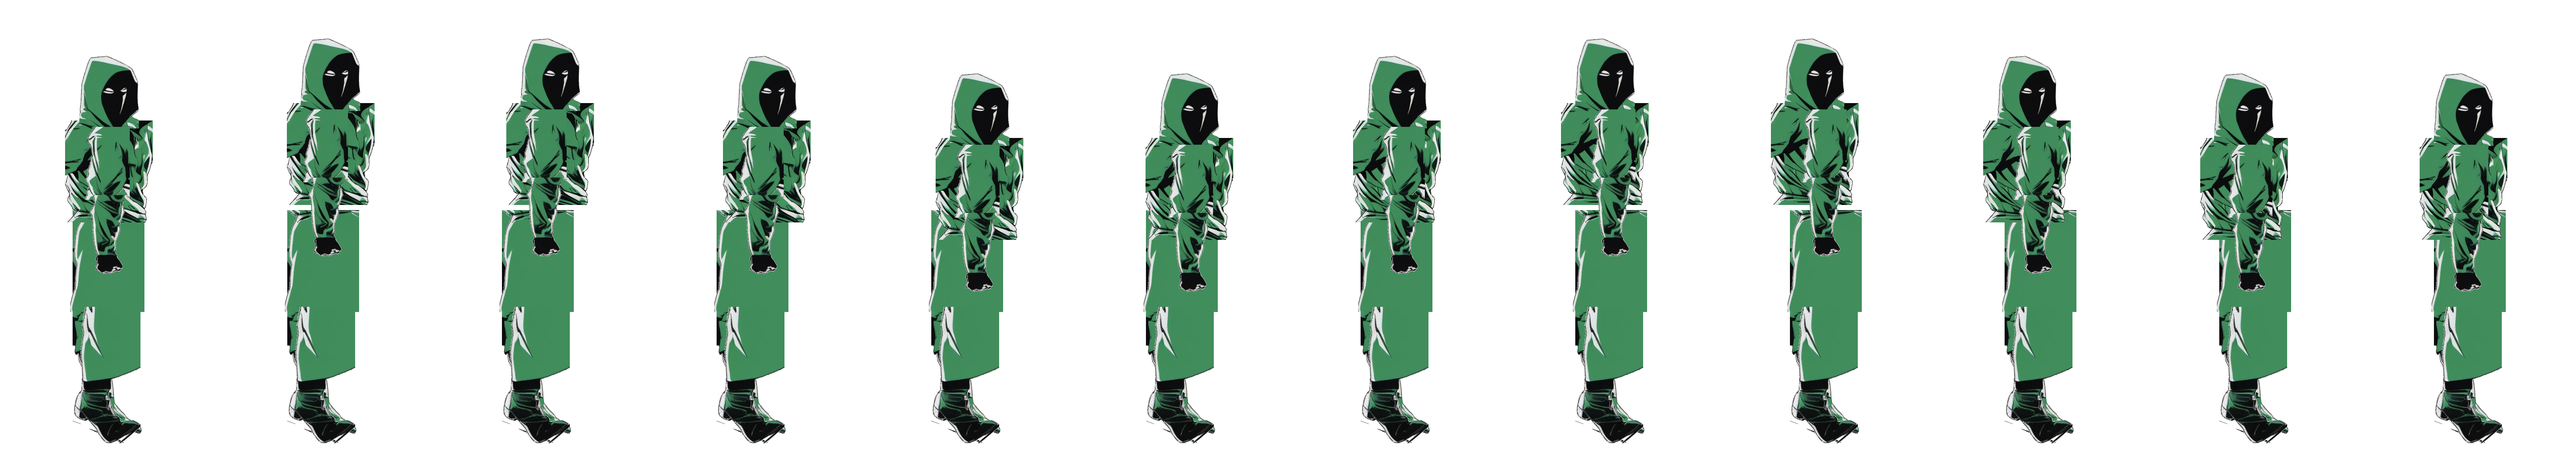
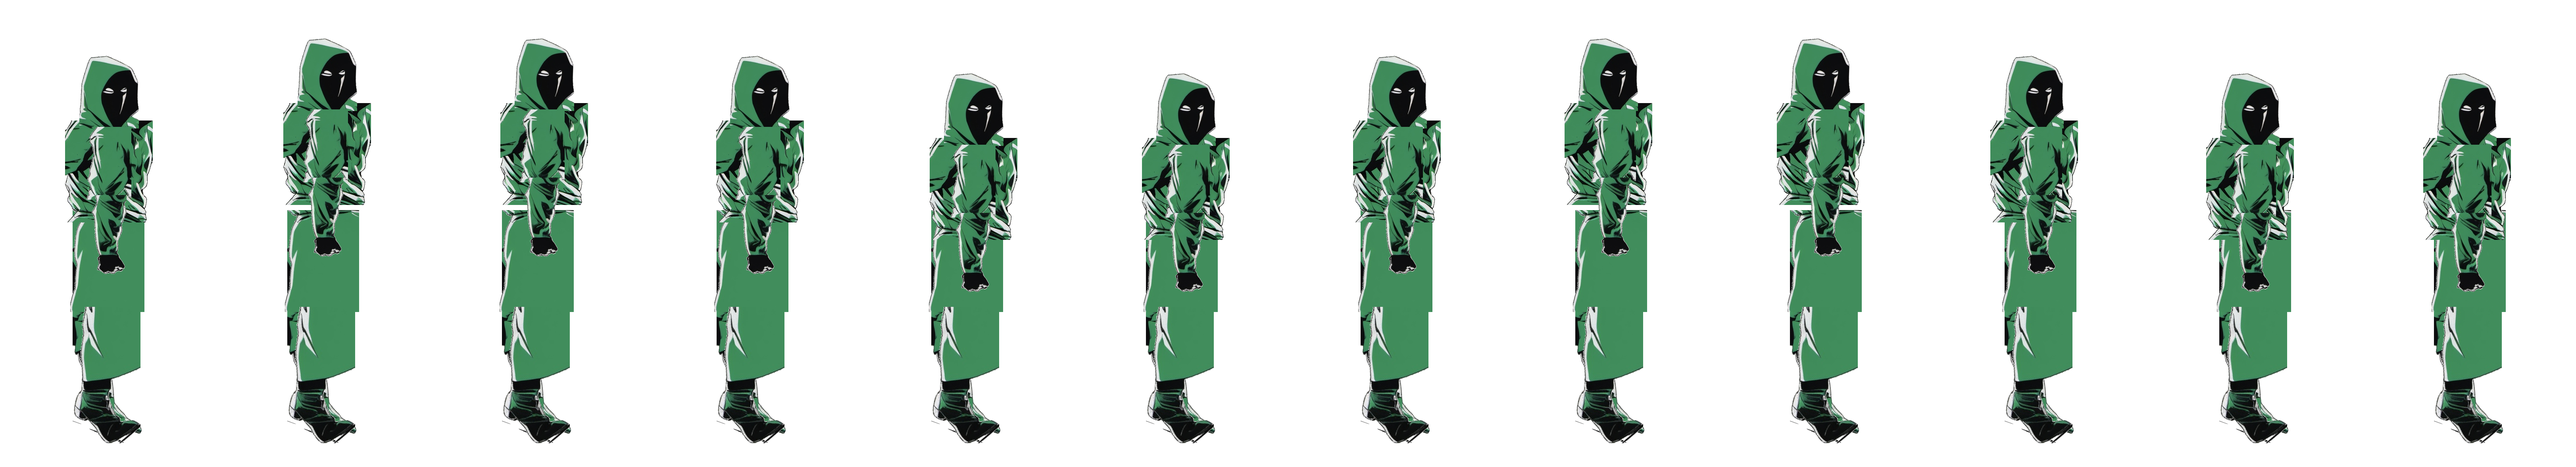
fix(character): halve idle's sideways sway per review -- reads as breathing (T-0430)
@DennieSeth, 2026-10-05: "Make the skeleton wiggle sideways 50% less, it should look
like breathing." Halves SWAY_AMPLITUDE_NATIVE_PX (35.0px -> 17.5px) in idle_cycle.py.

Honest consequence, measured not assumed: sway's own descended displacement drops to
0.716px (was 1.432px), below the 1px "does it read" floor this module otherwise holds
amplitudes to. This is reported rather than hidden, per this card's own acceptance
criterion -- not compensated for with a bigger number, because the explicit ask was for
sway to recede, not keep reading at the same strength. Breath (2.251px descended) is
unchanged and remains the signal that has to read on its own.

test_idle_cycle.py pins both the halved amplitude and its sub-pixel descended value so a
future change is a deliberate decision, not a silent drift. All evidence under
docs/assets/evidence/side-view-idle-reference/ (sheets, frames, both GIF loops,
rig_data_used.json, README) regenerated from the changed code via
gen_idle_side_view_T0430.py -- still a zero-GPU deterministic composite. Idle's own 43
tests and the walk's own test_walk_cycle.py pass unchanged; ruff clean.

diff --git a/assets/src/character/tests/test_idle_cycle.py b/assets/src/character/tests/test_idle_cycle.py
@@ -17,6 +17,7 @@ from char_gen.idle_cycle import (
     FIGURE_PX,
     LEG_REST_ANGLE_DEG,
     SWAY,
+    SWAY_AMPLITUDE_NATIVE_PX,
     SWAY_CYCLES_PER_LOOP,
     offsets_at,
 )
@@ -70,11 +71,28 @@ class TestAmplitudeSurvivesDescent:
             f"breath only moves {descended:.2f}px at a {FIGURE_PX}px figure height -- sub-pixel"
         )
 
-    def test_sway_displacement_is_above_a_pixel_at_final_figure_height(self):
+    def test_sway_amplitude_was_halved_per_human_review_comment(self):
+        """@DennieSeth, 2026-10-05: "Make the skeleton wiggle sideways 50% less, it
+        should look like breathing." Pins the literal halving (35.0px -> 17.5px) so a
+        future change to this value is a deliberate decision, not a silent drift."""
+        assert SWAY_AMPLITUDE_NATIVE_PX == pytest.approx(17.5)
+
+    def test_sway_displacement_is_now_below_a_pixel_at_final_figure_height(self):
+        """Halving sway's amplitude for the above reason puts its own descended
+        displacement under this module's 1px "does it read" floor (0.716px, where the
+        prior 35.0px amplitude gave 1.432px -- see TestAmplitudeSurvivesDescent's other
+        tests, which still require breath to clear that floor). This is a reported,
+        accepted tradeoff per T-0430's own acceptance criterion ("If a chosen amplitude
+        turns out to be sub-pixel, report that ... rather than shipping motion nobody
+        can see") -- not an oversight. Pinning the actual value, rather than deleting
+        the assertion, still catches an unintended future drift in either direction.
+        """
         peak = max(v for _, v in SWAY)
         descended = peak * DESCEND_SCALE
-        assert descended > 1.0, (
-            f"sway only moves {descended:.2f}px at a {FIGURE_PX}px figure height -- sub-pixel"
+        assert descended == pytest.approx(0.716, abs=0.01), (
+            f"sway displacement is {descended:.3f}px at a {FIGURE_PX}px figure height -- "
+            "update this pinned value and docs/assets/evidence/side-view-idle-reference/"
+            "README.md together if the amplitude changes again"
         )
 
     def test_breath_is_the_larger_signal(self):

diff --git a/assets/src/character/src/char_gen/idle_cycle.py b/assets/src/character/src/char_gen/idle_cycle.py
@@ -74,12 +74,22 @@ FIGURE_PX = 40
 FIGURE_HEIGHT_NATIVE_PX = 977.54
 DESCEND_SCALE = FIGURE_PX / FIGURE_HEIGHT_NATIVE_PX
 
-#: Native-resolution amplitudes, chosen so each signal clears 1px by a comfortable margin
-#: once descended (>2x and >1.4x respectively -- see test_idle_cycle.py's
-#: TestAmplitudeSurvivesDescent), with breath set larger than sway so breathing reads as
-#: the primary signal and weight shift as the secondary one.
+#: Native-resolution amplitudes. Breath is sized to clear 1px by a comfortable margin
+#: once descended (>2x -- see test_idle_cycle.py's TestAmplitudeSurvivesDescent) so
+#: breathing reads as the primary signal.
+#:
+#: Sway was originally 35.0px (descended 1.432px, a >1.4x margin over 1px).
+#: @DennieSeth's 2026-10-05 review comment on this card -- "Make the skeleton wiggle
+#: sideways 50% less, it should look like breathing" -- halves it to 17.5px. Descended,
+#: that is 0.716px: below the 1px floor this module's own amplitude choices otherwise
+#: hold to. This is a reported, deliberate tradeoff rather than an oversight or a case of
+#: compensating with a bigger number -- breath is the signal that has to read, weight
+#: shift is now intentionally a near-imperceptible secondary accent, and the actual
+#: measured value is pinned in test_idle_cycle.py::TestAmplitudeSurvivesDescent and
+#: documented in docs/assets/evidence/side-view-idle-reference/README.md rather than
+#: silently dropped.
 BREATH_AMPLITUDE_NATIVE_PX = 55.0
-SWAY_AMPLITUDE_NATIVE_PX = 35.0
+SWAY_AMPLITUDE_NATIVE_PX = 17.5
 
 #: How far behind the torso's own sway the arms trail, as a fraction of one full loop, and
 #: how strongly damped that trail is. Both must be nonzero/sub-1.0 for the arms to read as

diff --git a/docs/assets/evidence/side-view-idle-reference/README.md b/docs/assets/evidence/side-view-idle-reference/README.md
@@ -1,5 +1,11 @@
 # Side-view idle — breathing/weight-shift loop, 2026-10-04 (T-0430)
 
+**Updated 2026-10-05:** @DennieSeth's review comment on this card -- "Make the skeleton
+wiggle sideways 50% less, it should look like breathing" -- halves `SWAY_AMPLITUDE_NATIVE_PX`
+from 35.0px to 17.5px. Every number below is regenerated from that change; see "Measured,
+not assumed" for the honest consequence (sway's own descended displacement is now
+sub-pixel) and why it's accepted rather than compensated for.
+
 Second user of the walk's own reference path (`docs/assets/evidence/side-view-walk-reference/`):
 hand-cut parts -> post-process key -> deterministic rig and gait, no GPU and no sampling
 anywhere. Same ten parts, same `side_view_rig.json` pivots/bone mapping/z-order, reused
@@ -51,14 +57,30 @@ the same run that produced the PNGs/GIFs below):
 
 | signal | native amplitude | descended amplitude | measured from composited pixels |
 |---|---|---|---|
-| breath (peak, curve) | 55.0px | **2.251px** | opaque-centroid Y range: **2.181px** |
-| sway (peak, curve) | 35.0px | **1.432px** | opaque-centroid X range: **1.229px** |
+| breath (peak, curve) | 55.0px | **2.251px** | opaque-centroid Y range: **2.095px** |
+| sway (peak, curve) | 17.5px (was 35.0px) | **0.716px** (was 1.432px) | opaque-centroid X range: **0.683px** (was 1.229px) |
 
 The pixel-measured ranges are a little smaller than the curve-peak figures because the
 centroid averages over the whole figure, including the legs, which never move and make up
-most of the opaque area -- that dilution is expected and is exactly why the curve
-amplitudes were sized with a >2x (breath) and >1.4x (sway) margin over the 1px floor
-instead of landing right on it. Both numbers clear 1px.
+most of the opaque area -- that dilution is expected and is why breath's amplitude was
+sized with a >2x margin over the 1px floor instead of landing right on it. Breath clears
+1px comfortably.
+
+**Sway no longer clears 1px, and that is a reported, deliberate tradeoff, not an
+oversight.** @DennieSeth's 2026-10-05 review comment asked for the lateral weight-shift
+to be halved so the loop reads as breathing rather than a side-to-side wiggle; halving
+`SWAY_AMPLITUDE_NATIVE_PX` (35.0px -> 17.5px) is the direct, literal implementation of
+that, and its honest consequence is that sway's own descended displacement (0.716px
+curve peak, 0.683px measured) is now below the "does it read at all" floor this card's
+own acceptance criteria established for a signal meant to be independently visible.
+Per that same criterion ("If a chosen amplitude turns out to be sub-pixel, report that
+... rather than shipping motion nobody can see"), that is exactly what this section
+does -- it is not raised back up to compensate, because the explicit direction was for
+it to recede, not to keep reading at the same strength. Breath is now the only signal
+this loop needs to read on its own; sway is intentionally a near-imperceptible secondary
+accent. `tests/test_idle_cycle.py::TestAmplitudeSurvivesDescent` pins both the halved
+amplitude and its sub-pixel descended value so a future change is a deliberate decision,
+not a silent drift.
 
 `FIGURE_HEIGHT_NATIVE_PX = 977.54` (head reach 169.28 + spine 231.3 + leg chain 576.96) is
 measured from the ten parts' own pixel dimensions and `side_view_rig.json`'s
